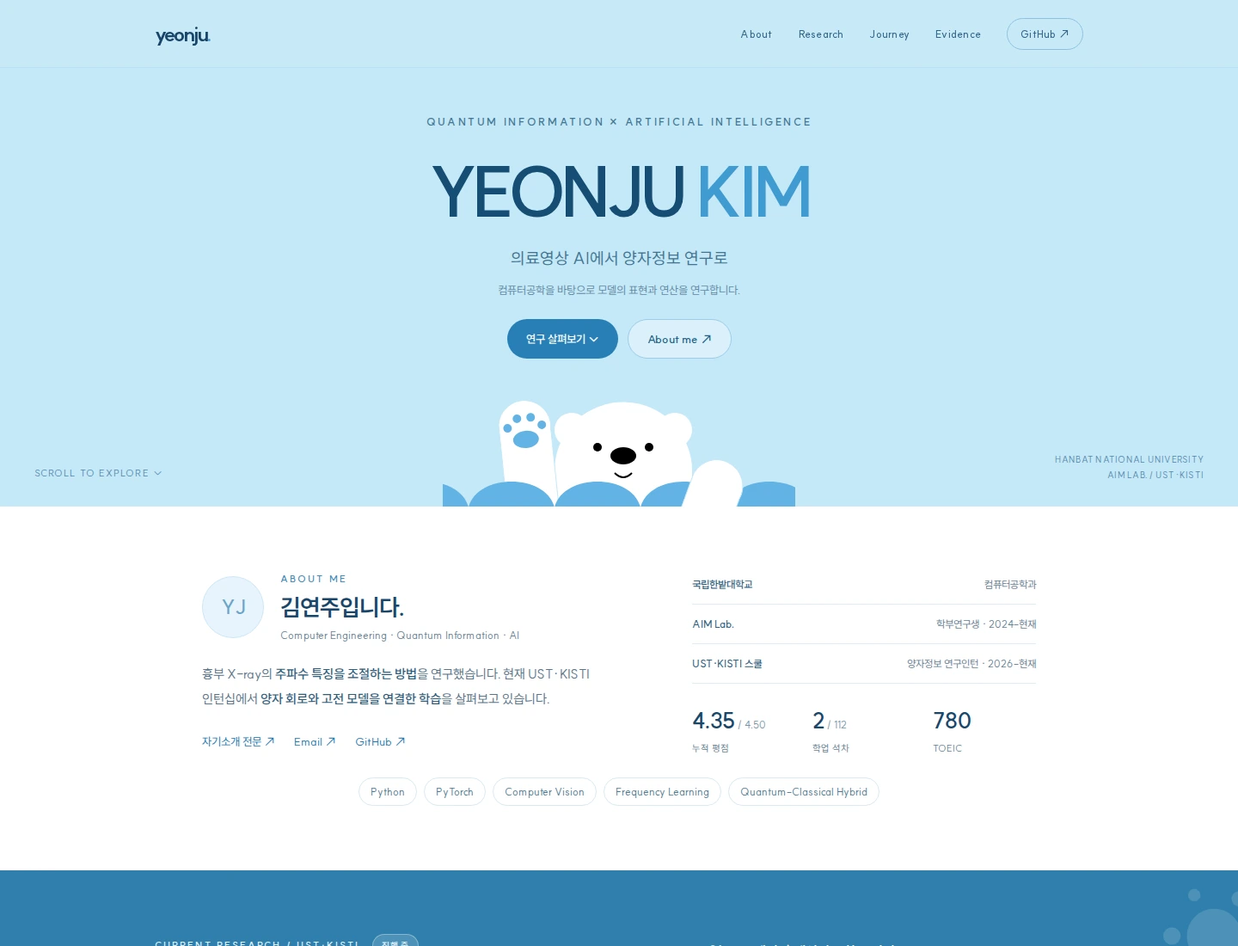
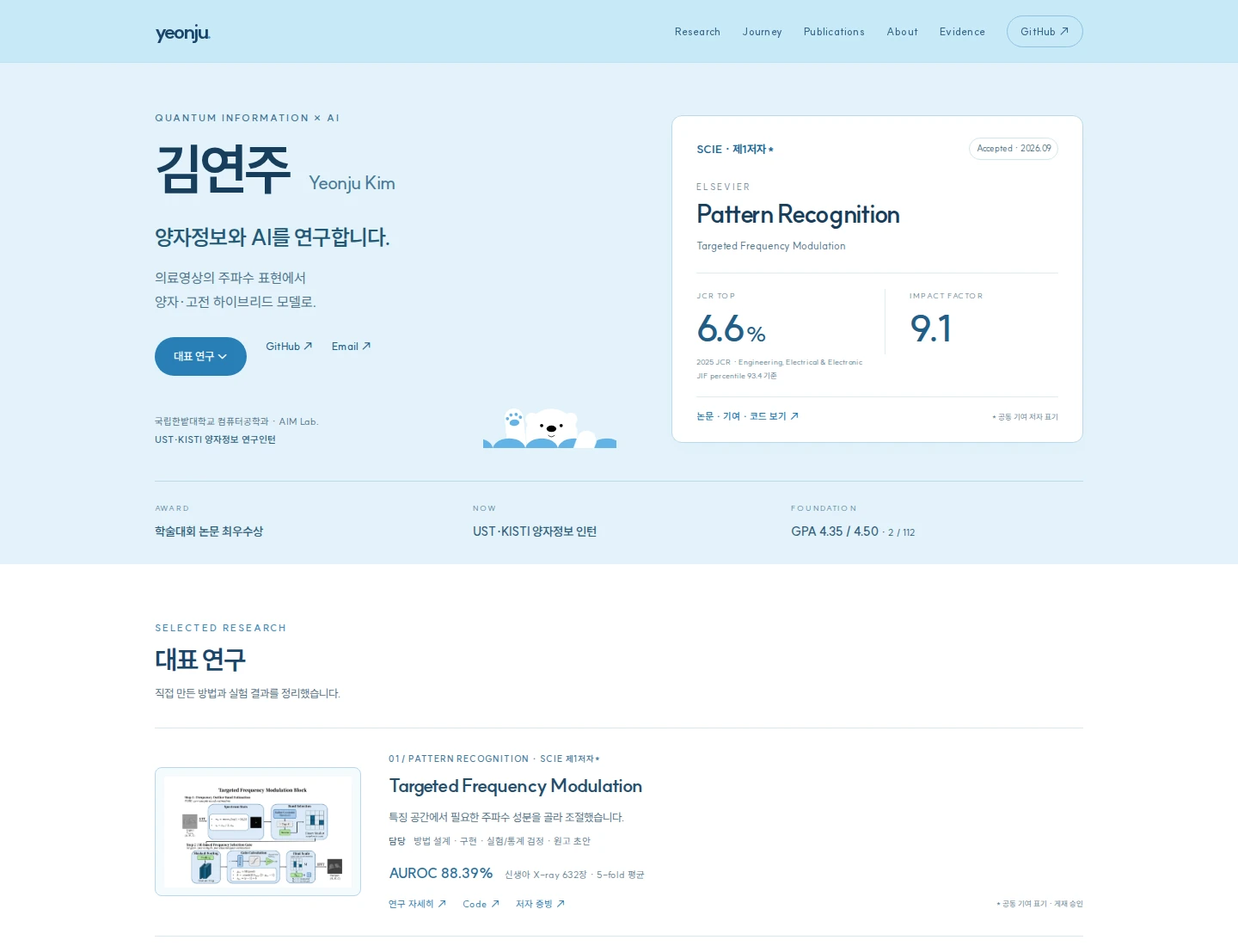
Lead Ice Bear portfolio with SCIE publication and concise research evidence

diff --git a/assets/main.css b/assets/main.css
@@ -18,3 +18,35 @@
 @media(prefers-reduced-motion:reduce){html{scroll-behavior:auto}*,*:before,*:after{animation:none!important;transition:none!important}}@media print{#header,.hero-actions,#footer,.menu-toggle,.back,.skip-link{display:none}section,.page-section{padding:25px 0}.wrapper{padding:0 10px}.research-grid{grid-template-columns:repeat(3,1fr)}.about-row,.current-row{grid-template-columns:1fr 1fr}#banner{height:300px}.hero-name{font-size:45px}#blog{color:#24566d;background:#e7f5fd}#blog h2,#blog p,#blog strong,.current-label{color:#24566d}.research-card,.vertical-timeline-block,.evidence-item{break-inside:avoid}.blue-title{font-size:26px}.card-body{padding:15px}.card-body h3{font-size:17px}.card-body p{font-size:11px}}
 
 #blog{background:#2f7fac}.footer-name,.footer-links a{color:#16466b}.footer-top p,.copyright{color:#245a7d}.copyright a{color:#19466a}.footer-top{color:#19466a}
+
+/* Research-first layout: Ice Bear palette and artwork, concise academic portfolio. */
+:root{--text:#243c50;--muted:#526d80}
+#header .wrapper{height:72px}nav{gap:25px}
+#banner{height:auto;padding:55px 0 0;overflow:visible;background:#e3f3fb}
+.hero-wrapper{position:relative;display:grid;grid-template-columns:1.12fr 1fr;gap:64px;align-items:center}
+.hero-content{text-align:left}.hero-content .eyebrow{font-size:11px;letter-spacing:.18em;color:#3c7193}
+.hero-name{font-size:64px;letter-spacing:-.065em;margin:15px 0 22px;line-height:1.1;color:#173e5c}
+.hero-name span{display:inline-block;font-size:22px;letter-spacing:-.03em;font-weight:500;color:#487895;margin-left:12px}
+.hero-content .intro{font-size:25px;font-weight:650;letter-spacing:-.035em;color:#245875}
+.hero-content .sub{font-size:16px;line-height:1.7;color:#4d7088;margin-top:12px}
+.hero-actions{justify-content:flex-start;gap:22px;margin-top:27px}.text-link{font-size:12px;color:#215c85;font-weight:550}
+.hero-affiliation{display:flex;align-items:flex-end;justify-content:space-between;gap:5px;margin-top:28px;min-height:55px}
+.hero-affiliation p{font-size:11px;color:#506f84;line-height:1.9;position:relative;z-index:2}.hero-affiliation strong{font-weight:600;color:#305f7e}
+.hero-bear{position:static;transform:none;width:155px;height:57px;flex-shrink:0;object-fit:contain}
+.publication-spotlight{background:#fff;border:1px solid #bdd9e9;border-radius:12px;padding:25px 28px 20px;box-shadow:0 9px 24px #39637a06;min-width:0}
+.spotlight-top{display:flex;align-items:center;justify-content:space-between;gap:12px}.paper-type{font-weight:750;font-size:13px;color:#1c6796}.paper-type>span{padding-left:2px}.accepted{font-size:10px;color:#46697c;border:1px solid #d6e6ee;border-radius:20px;padding:3px 8px;white-space:nowrap}
+.publisher{font-size:10px;letter-spacing:.19em;color:#698394;margin-top:23px}.publication-spotlight h2{font-size:29px;letter-spacing:-.045em;color:#173e5c;margin:3px 0 7px}.paper-short{font-size:12px;color:#4f728b}
+.journal-metrics{display:grid;grid-template-columns:1fr 1fr;border-top:1px solid #e2edf3;margin-top:21px;padding-top:18px;gap:18px}.journal-metrics>div+div{border-left:1px solid #e2edf3;padding-left:28px}.journal-metrics span{display:block;font-size:9px;letter-spacing:.1em;color:#617f92}.journal-metrics strong{font-size:43px;line-height:1.4;font-weight:650;color:#225e87;letter-spacing:-.055em}.journal-metrics small{font-size:24px;margin-left:3px;font-weight:450}.metric-caption{font-size:9px;line-height:1.7;color:#617e91;margin-top:1px}
+.spotlight-bottom{border-top:1px solid #e2edf3;margin-top:17px;padding-top:13px;display:flex;justify-content:space-between;gap:10px;align-items:center}.spotlight-bottom a{font-size:11px;font-weight:600}.spotlight-bottom>span{font-size:9px;color:#617e91}
+.highlights{display:grid;grid-template-columns:1fr 1fr 1fr;border-top:1px solid #bfdbea;margin-top:37px;padding:23px 0 25px;gap:30px}.highlights>a{display:block}.highlights span{display:block;font-size:9px;letter-spacing:.13em;color:#577d97;margin-bottom:5px}.highlights strong{font-size:14px;color:#315c79;font-weight:600}.highlights small{font-size:11px;font-weight:450}
+section{padding:65px 0}.section-heading{text-align:left;margin-bottom:28px}.blue-title{font-size:30px;margin:6px 0 8px}.section-heading p{font-size:13px;margin-top:7px}
+#research{background:#fff}.research-grid{display:grid;grid-template-columns:1fr;gap:0}.research-card{display:grid;grid-template-columns:240px 1fr;border:0;border-radius:0;box-shadow:none;border-top:1px solid #dbe8ef;background:#fff;padding:27px 0;gap:32px;align-items:center}.research-card:last-child{border-bottom:1px solid #dbe8ef}.research-card:hover{transform:none;box-shadow:none}.card-visual{height:150px;background:#f2f8fc;border:1px solid #e2eef4;border-radius:8px}.card-visual img{width:92%;height:136px}.card-visual svg{height:115px;width:210px}.card-body{padding:0;display:block}.card-body .eyebrow{font-size:10px;color:#487a9a;letter-spacing:.08em}.card-body h3{font-size:22px;margin:8px 0 10px;color:#244e6c}.card-body p{font-size:13px;color:#506f83;line-height:1.7;margin-bottom:8px}.card-body .research-role{font-size:11px;color:#5f7c8e}.research-role b{font-weight:550;color:#416880;margin-right:6px}.card-result{margin-top:13px;padding:0;border:0;font-size:11px;color:#647e90;display:flex;align-items:baseline;gap:14px;flex-wrap:wrap}.card-result b{font-size:16px;display:inline;color:#286e9b;white-space:nowrap}.card-link{justify-content:flex-start;flex-wrap:wrap;gap:9px 19px;font-size:11px;margin-top:12px}.card-link .status{margin-left:auto;font-size:9px;color:#627d8f}.featured-research .card-visual{background:#f5fafd;border-color:#b6d8eb}
+#blog{padding:52px 0}.current-row h2{font-size:29px;line-height:1.45}.current-row p{font-size:13px}.research-items strong{font-size:14px}.research-items>div{padding:10px 0 15px}.research-items p{font-size:11px}
+#vertical-timeline{max-width:none;margin-top:28px}.vertical-timeline-content{padding:20px 25px;grid-template-columns:130px 1fr}.vertical-timeline-content h3{font-size:18px}.path-note{text-align:left;max-width:none;margin-left:65px;font-size:13px}
+.posts-list h3{font-size:16px}.posts-list p{color:#58758a;font-size:11px}.posts-list p strong{color:#346685;font-weight:550}.posts-list>li{gap:23px;padding:22px 0}.posts-list time{color:#487d9e}.posts-list .post-status{color:#54768c}.posts-list{margin-top:8px}
+#about{padding:62px 0}.about-row{max-width:none;gap:60px}.about-row h2{font-size:23px}.avatar{width:58px;height:58px;font-size:20px}.about-description{font-size:14px}.tags{justify-content:flex-start}.stats strong{font-size:25px}.stats span{color:#617b8e}
+.evidence-item small{color:#58798e}.evidence-note{color:#617b8e}.next-grid p{color:#58778d}.next-grid .output{color:#477797}.page-content .small{font-size:11px;line-height:1.8}.journal-details{margin:0 0 16px;font-size:12px;line-height:1.75}.journal-details>div{display:grid;grid-template-columns:110px 1fr;border-bottom:1px solid #dfebf2;padding:10px 0;gap:16px}.journal-details dt{color:#52748b}.journal-details dd{margin:0;color:#315c77}
+@media(max-width:1000px){.hero-wrapper{gap:35px}.hero-name{font-size:56px}.hero-name span{font-size:18px;margin-left:9px}.hero-content .intro{font-size:22px}.hero-affiliation{margin-top:24px}.hero-bear{width:110px;height:42px}.publication-spotlight{padding:23px}.publication-spotlight h2{font-size:25px}.hero-content .sub{font-size:14px}.highlights{gap:20px}.highlights strong{font-size:12px}.card-link .status{margin-left:0}.research-card{grid-template-columns:210px 1fr;gap:28px}.about-row{gap:35px}}
+@media(max-width:760px){#header .wrapper{height:64px}#site-nav{top:64px}.wrapper{padding:0 24px}#banner{padding-top:33px}.hero-wrapper{grid-template-columns:1fr;gap:27px}.hero-content .eyebrow{font-size:10px;letter-spacing:.13em}.hero-name{font-size:45px;margin:16px 0 19px}.hero-name span{font-size:18px;margin-left:10px}.hero-content .intro{font-size:22px}.hero-content .sub{font-size:14px;margin-top:9px}.hero-actions{margin-top:22px;gap:22px}.hero-affiliation{margin-top:23px;min-height:46px}.hero-affiliation p{font-size:10px}.hero-bear{width:120px;height:44px}.publication-spotlight{padding:21px 22px 17px}.paper-type{font-size:12px}.accepted{font-size:9px;padding:3px 7px}.publisher{margin-top:17px;font-size:9px}.publication-spotlight h2{font-size:27px}.paper-short{font-size:11px}.journal-metrics{padding-top:13px;margin-top:17px}.journal-metrics strong{font-size:38px}.journal-metrics small{font-size:23px}.metric-caption{font-size:9px}.spotlight-bottom{margin-top:13px;padding-top:12px}.spotlight-bottom a{font-size:10px}.spotlight-bottom>span{font-size:8px}.highlights{grid-template-columns:1fr;margin-top:27px;padding:8px 0 15px;gap:0}.highlights>a{display:flex;justify-content:space-between;align-items:center;gap:10px;padding:10px 0}.highlights span{margin:0;font-size:8px}.highlights strong{font-size:11px}.highlights small{font-size:9px}section{padding:45px 0}.section-heading{margin-bottom:21px}.blue-title{font-size:27px}.section-heading p{font-size:12px}.research-card{grid-template-columns:1fr;gap:18px;padding:22px 0 25px}.card-visual{height:148px}.card-visual img{height:129px;width:90%}.card-body h3{font-size:21px}.card-body .eyebrow{font-size:9px}.card-body p{font-size:13px}.card-result{gap:7px 12px;font-size:10px}.card-result b{font-size:17px}.card-link{gap:9px 17px;font-size:11px}.card-link .status{font-size:9px;margin-left:0}.card-body .research-role{font-size:11px}.research-card:not(.featured-research){grid-template-columns:1fr}.research-card:not(.featured-research) .card-visual{display:none}#blog{padding:42px 0}.current-row{gap:20px}.current-row h2{font-size:26px}.research-items strong{font-size:14px}.current-row p{font-size:12px}.research-items p{font-size:11px}.vertical-timeline-content{grid-template-columns:1fr;margin-left:42px;padding:17px 18px;gap:7px}.vertical-timeline-content h3{font-size:17px}.vertical-timeline-content p{font-size:12px}.path-note{margin-left:42px;font-size:12px}.posts-list>li{gap:7px}.posts-list h3{font-size:15px}.posts-list p{font-size:11px}#about{padding:45px 0}.about-row{gap:24px}.about-row h2{font-size:22px}.about-description{font-size:13px}.journal-details>div{grid-template-columns:74px 1fr;gap:12px;font-size:11px}}
+@media(max-width:360px){.wrapper{padding:0 19px}.hero-affiliation p{font-size:9px}.hero-bear{width:98px}.publication-spotlight{padding:20px 18px}.publication-spotlight h2{font-size:25px}.spotlight-top{gap:8px}.accepted{font-size:8px}}
+@media print{#banner{height:auto;padding:25px 0}.hero-wrapper{grid-template-columns:1fr 1fr}.hero-name{font-size:35px}.hero-content .intro{font-size:18px}.publication-spotlight{padding:16px}.publication-spotlight h2{font-size:22px}.journal-metrics strong{font-size:28px}.highlights{margin-top:20px;padding:14px 0}.hero-affiliation{margin-top:10px}.research-card{grid-template-columns:170px 1fr;padding:17px 0}.card-body h3{font-size:18px}.card-body p{font-size:11px}.card-visual{height:120px}.card-visual img{height:100px}#blog{padding:25px 0}.section-heading{margin-bottom:18px}}

diff --git a/_includes/research.html b/_includes/research.html
@@ -1,1 +1,1 @@
-<section id="research"><div class="wrapper"><div class="section-heading"><span class="eyebrow">Selected research</span><h2 class="blue-title">Research & Projects</h2><p>설계하고 구현한 방법, 직접 확인한 결과</p></div><div class="research-grid"><article class="research-card"><div class="card-visual"><img src="assets/evidence/tfm-method.png" alt="TFM 주파수 선택과 게이트 구조" loading="lazy"></div><div class="card-body"><span class="eyebrow">Feature-space frequency learning</span><h3>필요한 성분만 조절하는 TFM</h3><p>샘플별 통계로 주파수 좌표를 선택하고, 선택된 성분을 조절했습니다. 방법 설계부터 구현·검증·원고 초안까지 맡았습니다.</p><div class="card-result"><b>88.39% AUROC</b>신생아 X-ray 632장 · 5-fold 평균</div><div class="card-link"><a href="research/tfm.html">연구 자세히 ↗</a><span class="status">Pattern Recognition · Accepted</span></div></div></article><article class="research-card"><div class="card-visual"><svg xmlns="http://www.w3.org/2000/svg" viewBox="0 0 250 130" aria-hidden="true"><g fill="#d8ecfa" stroke="#fff" stroke-width="2"><rect x="30" y="15" width="20" height="20"/><rect x="50" y="15" width="20" height="20"/><rect x="70" y="15" width="20" height="20"/><rect x="90" y="15" width="20" height="20"/><rect x="110" y="15" width="20" height="20"/><rect x="30" y="35" width="20" height="20"/><rect x="50" y="35" width="20" height="20"/><rect x="70" y="35" width="20" height="20"/><rect x="90" y="35" width="20" height="20"/><rect x="110" y="35" width="20" height="20"/><rect x="30" y="55" width="20" height="20"/><rect x="50" y="55" width="20" height="20"/><rect x="70" y="55" width="20" height="20"/><rect x="90" y="55" width="20" height="20"/><rect x="110" y="55" width="20" height="20"/><rect x="30" y="75" width="20" height="20"/><rect x="50" y="75" width="20" height="20"/><rect x="70" y="75" width="20" height="20"/><rect x="90" y="75" width="20" height="20"/><rect x="110" y="75" width="20" height="20"/><rect x="30" y="95" width="20" height="20"/><rect x="50" y="95" width="20" height="20"/><rect x="70" y="95" width="20" height="20"/><rect x="90" y="95" width="20" height="20"/><rect x="110" y="95" width="20" height="20"/></g><g fill="#67b7e7"><rect x="70" y="35" width="20" height="20"/><rect x="70" y="55" width="20" height="20"/><rect x="50" y="55" width="20" height="20"/></g><path d="M152 24v88M155 109h70" stroke="#98c6e3" fill="none"/><path d="M158 91l15-21 16 9 14-32 19 15" stroke="#66b3e4" stroke-width="3" fill="none"/></svg></div><div class="card-body"><span class="eyebrow">Selective frequency augmentation</span><h3>블록 FFT 기반 주파수 증강</h3><p>영상을 블록으로 나누고 주파수 에너지를 살폈습니다. 조절할 대역을 고르는 실험이 TFM의 출발점이 됐습니다.</p><div class="card-result"><b>최우수상</b>2025 동계학술대회 논문 경진대회</div><div class="card-link"><a href="research/frequency.html">연구 자세히 ↗</a><span class="status">한국방송·미디어공학회</span></div></div></article><article class="research-card"><div class="card-visual"><svg xmlns="http://www.w3.org/2000/svg" viewBox="0 0 250 130" aria-hidden="true"><g stroke="#b9dcee" stroke-width="1.5"><path d="M44 38L74 28"/><path d="M74 28L68 61"/><path d="M68 61L44 38"/><path d="M176 45L203 38"/><path d="M203 38L191 72"/><path d="M176 45L191 72"/><path d="M58 99L75 105"/><path d="M191 102L215 99"/></g><g fill="#77bce5"><circle cx="44" cy="38" r="7"/><circle cx="74" cy="28" r="9"/><circle cx="68" cy="61" r="8"/><circle cx="58" cy="99" r="5"/><circle cx="75" cy="105" r="4"/></g><g fill="#d0e7f7" stroke="#78b7de"><circle cx="176" cy="45" r="8"/><circle cx="203" cy="38" r="9"/><circle cx="191" cy="72" r="7"/><circle cx="191" cy="102" r="5"/><circle cx="215" cy="99" r="4"/></g><path d="M110 63h32m-8-6 8 6-8 6" stroke="#6aa7ce" fill="none" stroke-width="2"/></svg></div><div class="card-body"><span class="eyebrow">Contrastive learning & augmentation</span><h3>흉부 X-ray의 대조학습과 증강</h3><p>손실함수와 증강 조합을 비교했습니다. 내부 데이터에서 얻은 개선이 외부 데이터에서도 유지되는지 확인했습니다.</p><div class="card-result"><b>74.65 → 79.45%</b>CheXpert 분류 정확도</div><div class="card-link"><a href="research/contrastive.html">연구 자세히 ↗</a><span class="status">국내 학술지 · 공동제1저자</span></div></div></article></div></div></section>
+<section id="research"><div class="wrapper"><div class="section-heading"><span class="eyebrow">Selected research</span><h2 class="blue-title">대표 연구</h2><p>직접 만든 방법과 실험 결과를 정리했습니다.</p></div><div class="research-grid"><article class="research-card featured-research"><div class="card-visual"><img src="assets/evidence/tfm-method.png" alt="TFM 주파수 선택과 게이트 구조" loading="lazy"></div><div class="card-body"><span class="eyebrow">01 / Pattern Recognition · SCIE 제1저자*</span><h3>Targeted Frequency Modulation</h3><p>특징 공간에서 필요한 주파수 성분을 골라 조절했습니다.</p><p class="research-role"><b>담당</b> 방법 설계 · 구현 · 실험/통계 검정 · 원고 초안</p><div class="card-result"><b>AUROC 88.39%</b><span>신생아 X-ray 632장 · 5-fold 평균</span></div><div class="card-link"><a href="research/tfm.html">연구 자세히 ↗</a><a href="https://github.com/KimYeonJuu/Targeted-Frequency-Modulation-for-Robust-Neonatal-Respiratory-Distress-Classification">Code ↗</a><a href="assets/evidence/tfm-authors.png" data-proof>저자 증빙 ↗</a><span class="status">* 공동 기여 표기 · 게재 승인</span></div></div></article><article class="research-card"><div class="card-visual"><svg xmlns="http://www.w3.org/2000/svg" viewBox="0 0 250 130" aria-hidden="true"><g fill="#d8ecfa" stroke="#fff" stroke-width="2"><rect x="30" y="15" width="20" height="20"/><rect x="50" y="15" width="20" height="20"/><rect x="70" y="15" width="20" height="20"/><rect x="90" y="15" width="20" height="20"/><rect x="110" y="15" width="20" height="20"/><rect x="30" y="35" width="20" height="20"/><rect x="50" y="35" width="20" height="20"/><rect x="70" y="35" width="20" height="20"/><rect x="90" y="35" width="20" height="20"/><rect x="110" y="35" width="20" height="20"/><rect x="30" y="55" width="20" height="20"/><rect x="50" y="55" width="20" height="20"/><rect x="70" y="55" width="20" height="20"/><rect x="90" y="55" width="20" height="20"/><rect x="110" y="55" width="20" height="20"/><rect x="30" y="75" width="20" height="20"/><rect x="50" y="75" width="20" height="20"/><rect x="70" y="75" width="20" height="20"/><rect x="90" y="75" width="20" height="20"/><rect x="110" y="75" width="20" height="20"/><rect x="30" y="95" width="20" height="20"/><rect x="50" y="95" width="20" height="20"/><rect x="70" y="95" width="20" height="20"/><rect x="90" y="95" width="20" height="20"/><rect x="110" y="95" width="20" height="20"/></g><g fill="#67b7e7"><rect x="70" y="35" width="20" height="20"/><rect x="70" y="55" width="20" height="20"/><rect x="50" y="55" width="20" height="20"/></g><path d="M152 24v88M155 109h70" stroke="#98c6e3" fill="none"/><path d="M158 91l15-21 16 9 14-32 19 15" stroke="#66b3e4" stroke-width="3" fill="none"/></svg></div><div class="card-body"><span class="eyebrow">02 / Selective frequency augmentation</span><h3>블록 FFT 기반 주파수 증강</h3><p>64×64 블록의 주파수 에너지를 분석하고 선택한 대역만 증강했습니다.</p><p class="research-role"><b>결과</b> 분류 정확도 78.95 → 82.63%</p><div class="card-result"><b>최우수상</b>2025 동계학술대회 논문 경진대회</div><div class="card-link"><a href="research/frequency.html">연구 자세히 ↗</a><a href="assets/evidence/frequency-award.webp" data-proof>상장 ↗</a><span class="status">한국방송·미디어공학회</span></div></div></article><article class="research-card"><div class="card-visual"><svg xmlns="http://www.w3.org/2000/svg" viewBox="0 0 250 130" aria-hidden="true"><g stroke="#b9dcee" stroke-width="1.5"><path d="M44 38L74 28"/><path d="M74 28L68 61"/><path d="M68 61L44 38"/><path d="M176 45L203 38"/><path d="M203 38L191 72"/><path d="M176 45L191 72"/><path d="M58 99L75 105"/><path d="M191 102L215 99"/></g><g fill="#77bce5"><circle cx="44" cy="38" r="7"/><circle cx="74" cy="28" r="9"/><circle cx="68" cy="61" r="8"/><circle cx="58" cy="99" r="5"/><circle cx="75" cy="105" r="4"/></g><g fill="#d0e7f7" stroke="#78b7de"><circle cx="176" cy="45" r="8"/><circle cx="203" cy="38" r="9"/><circle cx="191" cy="72" r="7"/><circle cx="191" cy="102" r="5"/><circle cx="215" cy="99" r="4"/></g><path d="M110 63h32m-8-6 8 6-8 6" stroke="#6aa7ce" fill="none" stroke-width="2"/></svg></div><div class="card-body"><span class="eyebrow">03 / Contrastive learning & augmentation</span><h3>흉부 X-ray의 대조학습과 증강</h3><p>대조학습과 증강 조합을 비교하고 외부 데이터에서도 성능을 확인했습니다.</p><p class="research-role"><b>검증</b> 외부 데이터 정확도 61.37 → 66.32%</p><div class="card-result"><b>74.65 → 79.45%</b>CheXpert 분류 정확도</div><div class="card-link"><a href="research/contrastive.html">연구 자세히 ↗</a><a href="https://doi.org/10.7471/ikeee.2025.29.3.289">Paper ↗</a><span class="status">국내 학술지 · 공동제1저자</span></div></div></article></div></div></section>

diff --git a/research/tfm.html b/research/tfm.html
@@ -2,4 +2,4 @@
 layout: default
 title: Targeted Frequency Modulation
 ---
-<section class="page-section"><div class="wrapper"><article class="page-content"><a class="back" href="../index.html#research">← Research & Projects</a><span class="eyebrow">Medical AI / frequency representation</span><h1>Targeted Frequency Modulation</h1><p class="lead">특징 공간에서 조절할 주파수 성분을 선택하는 방법을 연구했습니다.</p><div class="tags detail-tags"><span>Pattern Recognition · Accepted 2026.09</span><span>제1저자 · 공동 기여 표기</span></div><h2>연구 질문</h2><p>모델이 만든 특징에서 조절할 성분을 먼저 선택하면, 불필요한 변화를 줄이면서 분류 성능을 높일 수 있을지 확인했습니다.</p><h2>방법과 담당 역할</h2><p>백본의 특징을 주파수 영역으로 변환했습니다. 샘플별 스펙트럼 통계로 좌표를 선택하고, 선택된 성분을 채널별로 조절한 뒤 특징 공간으로 복원했습니다. 방법 설계·소프트웨어 구현·실험과 분석·통계 검정·시각화·원고 초안 작성까지 맡았습니다.</p><figure><img src="../assets/evidence/tfm-method.png" alt="TFM의 주파수 좌표 선택과 게이트 구조"><figcaption>기존 발표 자료의 TFM 구조 발췌</figcaption></figure><h2>실험 결과</h2><p>신생아 흉부 X-ray 632장을 대상으로 5-fold 교차검증을 수행했습니다.</p><div class="table-wrap"><table class="data-table"><thead><tr><th>지표</th><th>평균 ± 표준편차 (%)</th></tr></thead><tbody><tr><td>AUROC</td><td>88.39 ± 4.46</td></tr><tr><td>AUPRC</td><td>89.51 ± 3.49</td></tr><tr><td>Accuracy</td><td>82.45 ± 5.47</td></tr><tr><td>F1</td><td>83.50 ± 6.09</td></tr></tbody></table></div><div class="note">Pooled OOF AUROC: TFM 88.21%, MedCLIP 84.57%. Paired DeLong p=0.0013. 5-fold 평균과 pooled OOF 값은 집계 방식이 달라 구분해 표시했습니다.</div><h2>다음 연구로 이어진 부분</h2><p>특징을 바꾸는 연산이 최종 예측에 어떤 영향을 주는지 분석했습니다. 지금은 일부 연산을 양자 회로와 연결했을 때 만들어지는 변화와 그 전달 과정을 살펴보고 있습니다.</p><div class="links"><a href="https://github.com/KimYeonJuu/Targeted-Frequency-Modulation-for-Robust-Neonatal-Respiratory-Distress-Classification">공개 코드 ↗</a><a href="../assets/evidence/tfm-authors.png" data-proof>논문 제목·저자·공동 기여 표기 ↗</a></div><p class="small" style="margin-top:20px">첨부 자료 기준 게재 승인 상태입니다. 공개 코드에는 임상 영상이 포함되지 않습니다.</p></article></div></section>
+<section class="page-section"><div class="wrapper"><article class="page-content"><a class="back" href="../index.html#research">← Research & Projects</a><span class="eyebrow">Medical AI / frequency representation</span><h1>Targeted Frequency Modulation</h1><p class="lead">특징 공간에서 조절할 주파수 성분을 선택하는 방법을 연구했습니다.</p><div class="tags detail-tags"><span>Pattern Recognition · Accepted 2026.09</span><span>SCIE 제1저자 · 공동 기여 표기</span><span>Elsevier · JCR Top 6.6% · IF 9.1</span></div><h2 id="journal-metrics">저널 지표와 저자 표기</h2><dl class="journal-details"><div><dt>학술지</dt><dd>Pattern Recognition · Elsevier · SCIE</dd></div><div><dt>지표 기준</dt><dd>2025 JCR · Impact Factor 9.1</dd></div><div><dt>평가 분야</dt><dd>Engineering, Electrical &amp; Electronic</dd></div><div><dt>JCR 순위</dt><dd>25 / 369 · JIF percentile 93.4 → 상위 6.6%</dd></div><div><dt>저자 기여</dt><dd>제1저자(저자 목록 첫 번째). 원고에 공동 기여 저자 표기가 있습니다.</dd></div><div><dt>논문 상태</dt><dd>2026년 9월 게재 승인(Accepted)</dd></div></dl><p class="small">Top 6.6%는 위 분야의 JIF 백분위 기준입니다. 전체 학술지나 AI 분야 전체의 순위를 뜻하지 않습니다. <a href="https://www.sciencedirect.com/journal/pattern-recognition">Elsevier 저널 정보 ↗</a> · <a href="https://milab.korea.ac.kr/2026/08/18/kwanseok-and-yooseungs-paper-accepted-to-pattern-recognition/">2025 JCR 지표·순위 참고 ↗</a> · <a href="https://www.letpub.com/index.php?journalid=6515&amp;page=journalapp&amp;view=detail">JIF 백분위 참고 ↗</a></p><h2>연구 질문</h2><p>모델이 만든 특징에서 조절할 성분을 먼저 선택하면, 불필요한 변화를 줄이면서 분류 성능을 높일 수 있을지 확인했습니다.</p><h2>방법과 담당 역할</h2><p>백본의 특징을 주파수 영역으로 변환했습니다. 샘플별 스펙트럼 통계로 좌표를 선택하고, 선택된 성분을 채널별로 조절한 뒤 특징 공간으로 복원했습니다. 방법 설계·소프트웨어 구현·실험과 분석·통계 검정·시각화·원고 초안 작성까지 맡았습니다.</p><figure><img src="../assets/evidence/tfm-method.png" alt="TFM의 주파수 좌표 선택과 게이트 구조"><figcaption>기존 발표 자료의 TFM 구조 발췌</figcaption></figure><h2>실험 결과</h2><p>신생아 흉부 X-ray 632장을 대상으로 5-fold 교차검증을 수행했습니다.</p><div class="table-wrap"><table class="data-table"><thead><tr><th>지표</th><th>평균 ± 표준편차 (%)</th></tr></thead><tbody><tr><td>AUROC</td><td>88.39 ± 4.46</td></tr><tr><td>AUPRC</td><td>89.51 ± 3.49</td></tr><tr><td>Accuracy</td><td>82.45 ± 5.47</td></tr><tr><td>F1</td><td>83.50 ± 6.09</td></tr></tbody></table></div><div class="note">Pooled OOF AUROC: TFM 88.21%, MedCLIP 84.57%. Paired DeLong p=0.0013. 5-fold 평균과 pooled OOF 값은 집계 방식이 달라 구분해 표시했습니다.</div><h2>다음 연구로 이어진 부분</h2><p>특징을 바꾸는 연산이 최종 예측에 어떤 영향을 주는지 분석했습니다. 지금은 일부 연산을 양자 회로와 연결했을 때 만들어지는 변화와 그 전달 과정을 살펴보고 있습니다.</p><div class="links"><a href="https://github.com/KimYeonJuu/Targeted-Frequency-Modulation-for-Robust-Neonatal-Respiratory-Distress-Classification">공개 코드 ↗</a><a href="../assets/evidence/tfm-authors.png" data-proof>논문 제목·저자·공동 기여 표기 ↗</a></div><p class="small" style="margin-top:20px">게재 승인: 2026.09. 임상 영상은 공개 코드에 포함하지 않았습니다.</p></article></div></section>

diff --git a/_includes/projects.html b/_includes/projects.html
@@ -1,1 +1,1 @@
-<section id="projects"><div class="wrapper"><span id="path"></span><div class="section-heading"><span class="eyebrow">Career journey</span><h2 class="blue-title">배움이 다음 연구로 이어진 과정</h2><p>컴퓨터공학 → 의료영상 AI → 주파수 특징 → 양자정보</p></div><div id="vertical-timeline" class="light-timeline"><div class="vertical-timeline-block"><div class="vertical-timeline-icon">01</div><div class="vertical-timeline-content"><div class="timeline-date">2023–2024</div><div><h3>컴퓨터공학의 기초와 데이터</h3><p>자료구조·알고리즘·확률및통계를 공부했습니다. AIM Lab.에서는 이미지·캡션 데이터를 준비하며 실험의 입력부터 확인했습니다.</p><span class="timeline-outcome">기초 → 구현과 데이터 검증</span></div></div></div><div class="vertical-timeline-block"><div class="vertical-timeline-icon">02</div><div class="vertical-timeline-content"><div class="timeline-date">2025</div><div><h3>의료영상 AI의 비교 실험</h3><p>흉부 X-ray 분류에 대조학습과 증강을 적용했습니다. 내부·외부 데이터의 결과를 함께 보며 일반화 성능을 확인했습니다.</p><span class="timeline-outcome">실험 → 국내 학술지 공동제1저자</span></div></div></div><div class="vertical-timeline-block"><div class="vertical-timeline-icon">03</div><div class="vertical-timeline-content"><div class="timeline-date">2025–2026</div><div><h3>입력 영상에서 특징 공간으로</h3><p>선택적 주파수 증강을 모델 내부의 특징 조절로 확장했습니다. TFM을 설계하고 실험·통계 검정·시각화를 수행했습니다.</p><span class="timeline-outcome">설계와 검증 → 학술대회 최우수상 · Pattern Recognition 게재 승인</span></div></div></div><div class="vertical-timeline-block"><div class="vertical-timeline-icon">04</div><div class="vertical-timeline-content"><div class="timeline-date">2026 · 현재</div><div><h3>양자정보와 AI의 연결</h3><p>UST·KISTI 스쿨 인턴십에서 양자·고전 하이브리드 모델을 연구합니다. 회로 내부의 변화와 최종 예측을 함께 살펴봅니다.</p><span class="timeline-outcome">현재 → 양자정보·양자머신러닝 연구자로</span></div></div></div></div><p class="path-note">의료영상에서 정보를 선택하는 방법을 연구하다가,<br>그 정보가 모델 안에서 어떻게 전달되는지에 관심을 갖게 됐습니다.</p></div></section>
+<section id="projects"><div class="wrapper"><span id="path"></span><div class="section-heading"><span class="eyebrow">Career journey</span><h2 class="blue-title">컴퓨터공학에서 양자정보까지</h2><p>컴퓨터공학 → 의료영상 AI → 주파수 특징 → 양자정보</p></div><div id="vertical-timeline" class="light-timeline"><div class="vertical-timeline-block"><div class="vertical-timeline-icon">01</div><div class="vertical-timeline-content"><div class="timeline-date">2023–2024</div><div><h3>컴퓨터공학의 기초와 데이터</h3><p>자료구조·알고리즘·확률및통계를 공부했습니다. AIM Lab.에서는 이미지·캡션 데이터를 준비하며 실험의 입력부터 확인했습니다.</p><span class="timeline-outcome">기초 → 구현과 데이터 검증</span></div></div></div><div class="vertical-timeline-block"><div class="vertical-timeline-icon">02</div><div class="vertical-timeline-content"><div class="timeline-date">2025</div><div><h3>의료영상 AI의 비교 실험</h3><p>흉부 X-ray 분류에 대조학습과 증강을 적용했습니다. 내부·외부 데이터의 결과를 함께 보며 일반화 성능을 확인했습니다.</p><span class="timeline-outcome">실험 → 국내 학술지 공동제1저자</span></div></div></div><div class="vertical-timeline-block"><div class="vertical-timeline-icon">03</div><div class="vertical-timeline-content"><div class="timeline-date">2025–2026</div><div><h3>입력 영상에서 특징 공간으로</h3><p>선택적 주파수 증강을 모델 내부의 특징 조절로 확장했습니다. TFM을 설계하고 실험·통계 검정·시각화를 수행했습니다.</p><span class="timeline-outcome">설계와 검증 → 학술대회 최우수상 · SCIE 제1저자 게재 승인</span></div></div></div><div class="vertical-timeline-block"><div class="vertical-timeline-icon">04</div><div class="vertical-timeline-content"><div class="timeline-date">2026 · 현재</div><div><h3>양자정보와 AI의 연결</h3><p>UST·KISTI 스쿨 인턴십에서 양자·고전 하이브리드 모델을 연구합니다. 회로 내부의 변화와 최종 예측을 함께 살펴봅니다.</p><span class="timeline-outcome">현재 → 양자정보·양자머신러닝 연구자로</span></div></div></div></div><p class="path-note">의료영상에서 정보를 선택하는 방법을 연구하다가,<br>그 정보가 모델 안에서 어떻게 전달되는지에 관심을 갖게 됐습니다.</p></div></section>

diff --git a/_includes/publications.html b/_includes/publications.html
@@ -1,1 +1,1 @@
-<section id="publications"><div class="wrapper"><span id="record"></span><div class="section-heading"><span class="eyebrow">Publications & experience</span><h2 class="blue-title">Papers, Awards & Activities</h2></div><ul class="posts-list"><li><time>2026.09</time><div><h3><a href="research/tfm.html">Targeted Frequency Modulation for Robust Neonatal Respiratory Distress Classification</a></h3><p>Pattern Recognition · 제1저자, 공동 기여 표기</p></div><div class="post-status">게재 승인</div></li><li><time>2025.09</time><div><h3><a href="https://doi.org/10.7471/ikeee.2025.29.3.289">대조 학습과 데이터 증강을 활용한 흉부 X-Ray 이미지 분류 정확도 향상</a></h3><p>한국전기전자학회 논문지 29(3), 289–296 · 공동제1저자</p></div><div class="post-status">게재 완료</div></li></ul><div class="award-row"><a class="pill" href="assets/evidence/frequency-award.webp" data-proof>2025 동계학술대회 · 최우수상 ↗</a><a class="pill" href="assets/evidence/ai-award.png" data-proof>소중한 SW·AI 경진대회 · AI 부문 3등 ↗</a></div><div class="experience-list"><div><time>2026.07–현재</time><div>UST·KISTI 스쿨 양자정보 인턴십 <small>· 2026.12.24 종료 예정</small></div><span>연구인턴</span></div><div><time>2026.04–현재</time><div>생성형 AI 기반 이미지 워터마킹 기술 연구 <small>· 2026.10.31 종료 예정</small></div><span>학생연구자</span></div><div><time>2025.04–09</time><div>사이버안보 정책 도메인에 적합한 대화형 AI 모델 연구</div><span>학생연구자</span></div></div></div></section>
+<section id="publications"><div class="wrapper"><span id="record"></span><div class="section-heading"><span class="eyebrow">Publications & experience</span><h2 class="blue-title">논문 · 수상 · 연구경력</h2></div><ul class="posts-list"><li><time>2026.09</time><div><h3><a href="research/tfm.html">Targeted Frequency Modulation for Robust Neonatal Respiratory Distress Classification</a></h3><p><strong>Pattern Recognition (Elsevier) · SCIE 제1저자*</strong><br>JCR Top 6.6% · IF 9.1 · 2025 JCR 기준<br>* 공동 기여 표기 · 저널 지표의 분야와 기준은 <a href="research/tfm.html#journal-metrics">상세 페이지</a> 참조</p></div><div class="post-status">게재 승인</div></li><li><time>2025.09</time><div><h3><a href="https://doi.org/10.7471/ikeee.2025.29.3.289">대조 학습과 데이터 증강을 활용한 흉부 X-Ray 이미지 분류 정확도 향상</a></h3><p>한국전기전자학회 논문지 29(3), 289–296 · 공동제1저자</p></div><div class="post-status">게재 완료</div></li></ul><div class="award-row"><a class="pill" href="assets/evidence/frequency-award.webp" data-proof>2025 동계학술대회 · 최우수상 ↗</a><a class="pill" href="assets/evidence/ai-award.png" data-proof>소중한 SW·AI 경진대회 · AI 부문 3등 ↗</a></div><div class="experience-list"><div><time>2026.07–현재</time><div>UST·KISTI 스쿨 양자정보 인턴십 <small>· 2026.12.24 종료 예정</small></div><span>연구인턴</span></div><div><time>2026.04–현재</time><div>생성형 AI 기반 이미지 워터마킹 기술 연구 <small>· 2026.10.31 종료 예정</small></div><span>학생연구자</span></div><div><time>2025.04–09</time><div>사이버안보 정책 도메인에 적합한 대화형 AI 모델 연구</div><span>학생연구자</span></div></div></div></section>

diff --git a/_includes/blog.html b/_includes/blog.html
@@ -1,1 +1,1 @@
-<section id="blog"><span id="quantum"></span><svg class="current-sun" xmlns="http://www.w3.org/2000/svg" viewBox="1150 0 450 450" aria-hidden="true"><g fill="white"><circle r="110" cx="1400" cy="230"/><circle r="35" cx="1230" cy="230"/><circle r="25" cx="1320" cy="65"/><circle r="30" cx="1500" cy="80"/><circle r="20" cx="1570" cy="230"/><circle r="35" cx="1500" cy="380"/><circle r="25" cx="1320" cy="380"/></g></svg><img class="current-bear-cloud" src="assets/images/cloud.png" alt="" aria-hidden="true"><div class="wrapper"><div class="current-row"><div><span class="eyebrow current-label">Current research / UST·KISTI <span class="ongoing">진행 중</span></span><h2 class="white-title">양자 회로와 AI 모델을<br>함께 살펴보고 있습니다.</h2><p>회로 출력은 달라졌는데 최종 예측의 차이는 작았습니다. 그 뒤로 회로 안에서 생긴 변화가 후속 고전 연산을 거치며 얼마나 남는지 확인하고 있습니다.</p><a class="btn-primary btn-white" href="research/quantum.html">현재 연구 보기 ↗</a></div><div class="research-items"><div><span class="num">01</span><div><strong>데이터 재입력 · 회로 깊이</strong><p>입력 방식과 회로 구조에 따른 표현의 변화</p></div></div><div><span class="num">02</span><div><strong>시드에 따른 변동</strong><p>반복 실험에서 나타나는 출력과 성능의 차이</p></div></div><div><span class="num">03</span><div><strong>회로 출력에서 최종 예측까지</strong><p>고전 연산 이후에도 내부 차이가 남는지 비교</p></div></div></div></div></div></section>
+<section id="blog"><span id="quantum"></span><svg class="current-sun" xmlns="http://www.w3.org/2000/svg" viewBox="1150 0 450 450" aria-hidden="true"><g fill="white"><circle r="110" cx="1400" cy="230"/><circle r="35" cx="1230" cy="230"/><circle r="25" cx="1320" cy="65"/><circle r="30" cx="1500" cy="80"/><circle r="20" cx="1570" cy="230"/><circle r="35" cx="1500" cy="380"/><circle r="25" cx="1320" cy="380"/></g></svg><img class="current-bear-cloud" src="assets/images/cloud.png" alt="" aria-hidden="true"><div class="wrapper"><div class="current-row"><div><span class="eyebrow current-label">Current research / UST·KISTI <span class="ongoing">진행 중</span></span><h2 class="white-title">지금은 양자·고전<br>하이브리드 모델을 연구합니다.</h2><p>회로 출력의 변화가 최종 예측까지 얼마나 전달되는지 확인하고 있습니다. 의료영상 AI에서 익힌 비교 실험을 양자 모델로 이어갑니다.</p><a class="btn-primary btn-white" href="research/quantum.html">현재 연구 보기 ↗</a></div><div class="research-items"><div><span class="num">01</span><div><strong>데이터 재입력 · 회로 깊이</strong><p>입력 방식과 회로 구조에 따른 표현의 변화</p></div></div><div><span class="num">02</span><div><strong>시드에 따른 변동</strong><p>반복 실험에서 나타나는 출력과 성능의 차이</p></div></div><div><span class="num">03</span><div><strong>회로 출력에서 최종 예측까지</strong><p>고전 연산 이후에도 내부 차이가 남는지 비교</p></div></div></div></div></div></section>

diff --git a/_includes/banner.html b/_includes/banner.html
@@ -1,1 +1,22 @@
-<section id="banner"><div class="wrapper hero-wrapper"><div class="hero-content"><span class="eyebrow">Quantum Information × Artificial Intelligence</span><h1 class="hero-name">YEONJU <span>KIM</span></h1><p class="intro">의료영상 AI에서 양자정보 연구로</p><p class="sub">컴퓨터공학을 바탕으로 모델의 표현과 연산을 연구합니다.</p><div class="hero-actions"><a class="btn-primary btn-blue" href="#research">연구 살펴보기 ↓</a><a class="btn-primary btn-outline" href="about.html">About me ↗</a></div></div><img class="hero-bear" src="assets/images/ice-bear.svg" alt="손을 흔드는 Ice Bear 북극곰"><a class="hero-arrow" href="#about">SCROLL TO EXPLORE ↓</a><p class="hero-meta">HANBAT NATIONAL UNIVERSITY<br>AIM LAB. / UST·KISTI</p></div></section>
+<section id="banner" aria-labelledby="hero-title">
+  <div class="wrapper hero-wrapper">
+    <div class="hero-content">
+      <span class="eyebrow">Quantum Information × AI</span>
+      <h1 class="hero-name" id="hero-title">김연주 <span>Yeonju Kim</span></h1>
+      <p class="intro">양자정보와 AI를 연구합니다.</p>
+      <p class="sub">의료영상의 주파수 표현에서<br>양자·고전 하이브리드 모델로.</p>
+      <div class="hero-actions"><a class="btn-primary btn-blue" href="#research">대표 연구 ↓</a><a class="text-link" href="https://github.com/KimYeonJuu">GitHub ↗</a><a class="text-link" href="mailto:yeonjuk8@gmail.com">Email ↗</a></div>
+      <div class="hero-affiliation"><p>국립한밭대학교 컴퓨터공학과 · AIM Lab.<br><strong>UST·KISTI 양자정보 연구인턴</strong></p><img class="hero-bear" src="assets/images/ice-bear.svg" alt="Ice Bear 북극곰"></div>
+    </div>
+    <article class="publication-spotlight" aria-labelledby="featured-journal">
+      <div class="spotlight-top"><span class="paper-type">SCIE · 제1저자<span aria-label="공동 기여 표기">*</span></span><span class="accepted">Accepted · 2026.09</span></div>
+      <p class="publisher">ELSEVIER</p>
+      <h2 id="featured-journal">Pattern Recognition</h2>
+      <p class="paper-short">Targeted Frequency Modulation</p>
+      <div class="journal-metrics"><div><span>JCR TOP</span><strong>6.6<small>%</small></strong></div><div><span>IMPACT FACTOR</span><strong>9.1</strong></div></div>
+      <p class="metric-caption">2025 JCR · Engineering, Electrical &amp; Electronic<br>JIF percentile 93.4 기준</p>
+      <div class="spotlight-bottom"><a href="research/tfm.html">논문 · 기여 · 코드 보기 ↗</a><span>* 공동 기여 저자 표기</span></div>
+    </article>
+  </div>
+  <div class="wrapper"><div class="highlights" aria-label="주요 이력"><a href="research/frequency.html"><span>AWARD</span><strong>학술대회 논문 최우수상</strong></a><a href="research/quantum.html"><span>NOW</span><strong>UST·KISTI 양자정보 인턴</strong></a><a href="#about"><span>FOUNDATION</span><strong>GPA 4.35 / 4.50 <small>· 2 / 112</small></strong></a></div></div>
+</section>

diff --git a/_includes/about.html b/_includes/about.html
@@ -1,1 +1,1 @@
-<section id="about"><div class="wrapper"><div class="about-row"><div><div class="identity-row"><div class="avatar" aria-hidden="true">YJ</div><div><span class="eyebrow">About me</span><h2>김연주입니다.</h2><p class="small">Computer Engineering · Quantum Information · AI</p></div></div><p class="about-description">흉부 X-ray의 <strong>주파수 특징을 조절하는 방법</strong>을 연구했습니다. 현재 UST·KISTI 인턴십에서 <strong>양자 회로와 고전 모델을 연결한 학습</strong>을 살펴보고 있습니다.</p><div class="links about-links"><a href="about.html">자기소개 전문 ↗</a><a href="mailto:yeonjuk8@gmail.com">Email ↗</a><a href="https://github.com/KimYeonJuu">GitHub ↗</a></div></div><div><div class="affiliation"><strong>국립한밭대학교</strong><span>컴퓨터공학과</span></div><div class="affiliation"><strong>AIM Lab.</strong><span>학부연구생 · 2024–현재</span></div><div class="affiliation"><strong>UST·KISTI 스쿨</strong><span>양자정보 연구인턴 · 2026–현재</span></div><div class="stats"><div><strong>4.35<small> / 4.50</small></strong><span>누적 평점</span></div><div><strong>2<small> / 112</small></strong><span>학업 석차</span></div><div><strong>780</strong><span>TOEIC</span></div></div></div></div><div class="tags"><span>Python</span><span>PyTorch</span><span>Computer Vision</span><span>Frequency Learning</span><span>Quantum–Classical Hybrid</span></div></div></section>
+<section id="about"><div class="wrapper"><div class="about-row"><div><div class="identity-row"><div class="avatar" aria-hidden="true">YJ</div><div><span class="eyebrow">About me</span><h2>연구를 뒷받침하는 기반</h2><p class="small">Computer Engineering · Quantum Information · AI</p></div></div><p class="about-description">자료구조와 알고리즘을 공부하며 모델을 구현했고, 확률과 통계를 실험 결과를 읽는 데 썼습니다. <strong>직접 만든 방법을 반복 실험으로 확인하는 과정</strong>을 중요하게 생각합니다.</p><div class="links about-links"><a href="about.html">자기소개 전문 ↗</a><a href="mailto:yeonjuk8@gmail.com">Email ↗</a><a href="https://github.com/KimYeonJuu">GitHub ↗</a></div></div><div><div class="affiliation"><strong>국립한밭대학교</strong><span>컴퓨터공학과</span></div><div class="affiliation"><strong>AIM Lab.</strong><span>학부연구생 · 2024–현재</span></div><div class="affiliation"><strong>UST·KISTI 스쿨</strong><span>양자정보 연구인턴 · 2026–현재</span></div><div class="stats"><div><strong>4.35<small> / 4.50</small></strong><span>누적 평점</span></div><div><strong>2<small> / 112</small></strong><span>학업 석차</span></div><div><strong>780</strong><span>TOEIC</span></div></div></div></div><div class="tags"><span>Python</span><span>PyTorch</span><span>Computer Vision</span><span>Frequency Learning</span><span>Quantum–Classical Hybrid</span></div></div></section>

diff --git a/_includes/head.html b/_includes/head.html
@@ -1,1 +1,1 @@
-<head><meta charset="utf-8"><meta name="viewport" content="width=device-width,initial-scale=1"><title>{{ page.title }} · 김연주</title><meta name="description" content="김연주 연구 포트폴리오. 의료영상 AI와 주파수 특징 연구에서 양자정보·양자머신러닝으로."><meta name="theme-color" content="#c4e8f8"><meta property="og:title" content="Yeonju Kim · Quantum Information × AI"><meta property="og:description" content="의료영상 AI에서 양자정보 연구로"><meta property="og:image" content="https://kimyeonjuu.github.io/assets/preview/desktop.webp"><link rel="stylesheet" href="{{ '/assets/main.css' | relative_url }}?v=icebear-20261012"><link rel="icon" href="{{ '/assets/favicon.svg' | relative_url }}" type="image/svg+xml"><script src="{{ '/assets/js/ice-bear.js' | relative_url }}" defer></script></head>
+<head><meta charset="utf-8"><meta name="viewport" content="width=device-width,initial-scale=1"><title>{{ page.title }} · 김연주</title><meta name="description" content="김연주 · 양자정보 × AI. Pattern Recognition SCIE 제1저자 게재 승인. UST·KISTI 양자정보 연구인턴."><meta name="theme-color" content="#c4e8f8"><meta property="og:title" content="Yeonju Kim · Quantum Information × AI"><meta property="og:description" content="Pattern Recognition SCIE 제1저자 · UST·KISTI 양자정보 연구인턴"><meta property="og:image" content="https://kimyeonjuu.github.io/assets/preview/desktop.webp"><link rel="stylesheet" href="{{ '/assets/main.css' | relative_url }}?v=research-20261012-v2"><link rel="icon" href="{{ '/assets/favicon.svg' | relative_url }}" type="image/svg+xml"><script src="{{ '/assets/js/ice-bear.js' | relative_url }}" defer></script></head>

diff --git a/_includes/header.html b/_includes/header.html
@@ -1,1 +1,1 @@
-<header id="header"><div class="wrapper"><a class="wordmark" href="{{ '/' | relative_url }}" aria-label="김연주 홈">yeonju<span>.</span></a><button class="menu-toggle" type="button" aria-label="메뉴 열기" aria-controls="site-nav" aria-expanded="false"><span></span><span></span></button><nav id="site-nav" aria-label="주요 메뉴"><a href="{{ '/#about' | relative_url }}">About</a><a href="{{ '/#research' | relative_url }}">Research</a><a href="{{ '/#projects' | relative_url }}">Journey</a><a href="{{ '/#evidence' | relative_url }}">Evidence</a><a href="https://github.com/KimYeonJuu" class="nav-github">GitHub ↗</a></nav></div></header>
+<header id="header"><div class="wrapper"><a class="wordmark" href="{{ '/' | relative_url }}" aria-label="김연주 홈">yeonju<span>.</span></a><button class="menu-toggle" type="button" aria-label="메뉴 열기" aria-controls="site-nav" aria-expanded="false"><span></span><span></span></button><nav id="site-nav" aria-label="주요 메뉴"><a href="{{ '/#research' | relative_url }}">Research</a><a href="{{ '/#projects' | relative_url }}">Journey</a><a href="{{ '/#publications' | relative_url }}">Publications</a><a href="{{ '/#about' | relative_url }}">About</a><a href="{{ '/#evidence' | relative_url }}">Evidence</a><a href="https://github.com/KimYeonJuu" class="nav-github">GitHub ↗</a></nav></div></header>

diff --git a/index.html b/index.html
@@ -3,10 +3,10 @@ layout: default
 title: 연구 포트폴리오
 home: true
 ---
-{% include about.html %}
-{% include blog.html %}
 {% include research.html %}
+{% include blog.html %}
 {% include projects.html %}
 {% include publications.html %}
+{% include about.html %}
 {% include evidence.html %}
 {% include next.html %}

diff --git a/README.md b/README.md
@@ -19,3 +19,10 @@ Typeface: SUIT, SIL Open Font License (assets/fonts/OFL.txt).
 GitHub Pages: main / (root). 로컬 실행: bundle install; bundle exec jekyll serve.
 
 기록 기준일 2026.10.08 / 디자인 수정 2026.10.12. 논문 상태는 게재 승인과 게재 완료를 구분하고 양자 연구는 진행 중으로 표시했습니다.
+
+## Research-first revision (2026.10.12)
+- 첫 화면: 연구 정체성, Pattern Recognition SCIE 제1저자 게재 승인, JCR/IF 기준, 현재 소속.
+- 연구 목록: 그림, 한 줄 설명, 역할/결과, 논문/코드/증빙 직접 링크.
+- JCR Top 6.6%: 2025 Engineering, Electrical & Electronic의 JIF percentile 93.4 기준. 단순 순위 비율이나 AI 분야 순위로 쓰지 않습니다.
+- 수상 이력과 자료 연결 참고: [oMFDOo](https://github.com/oMFDOo/oMFDOo), [CBNU 공개 수상자 목록](https://github.com/kimhy365/CBNU_IndAI).
+- 연구 목록의 정보 배치 참고: [Jon Barron](https://jonbarron.info/). 사용자 제공 devfolio 화면의 간결한 위계를 반영했습니다. 참조 사이트의 코드나 이미지는 복제하지 않았습니다.
